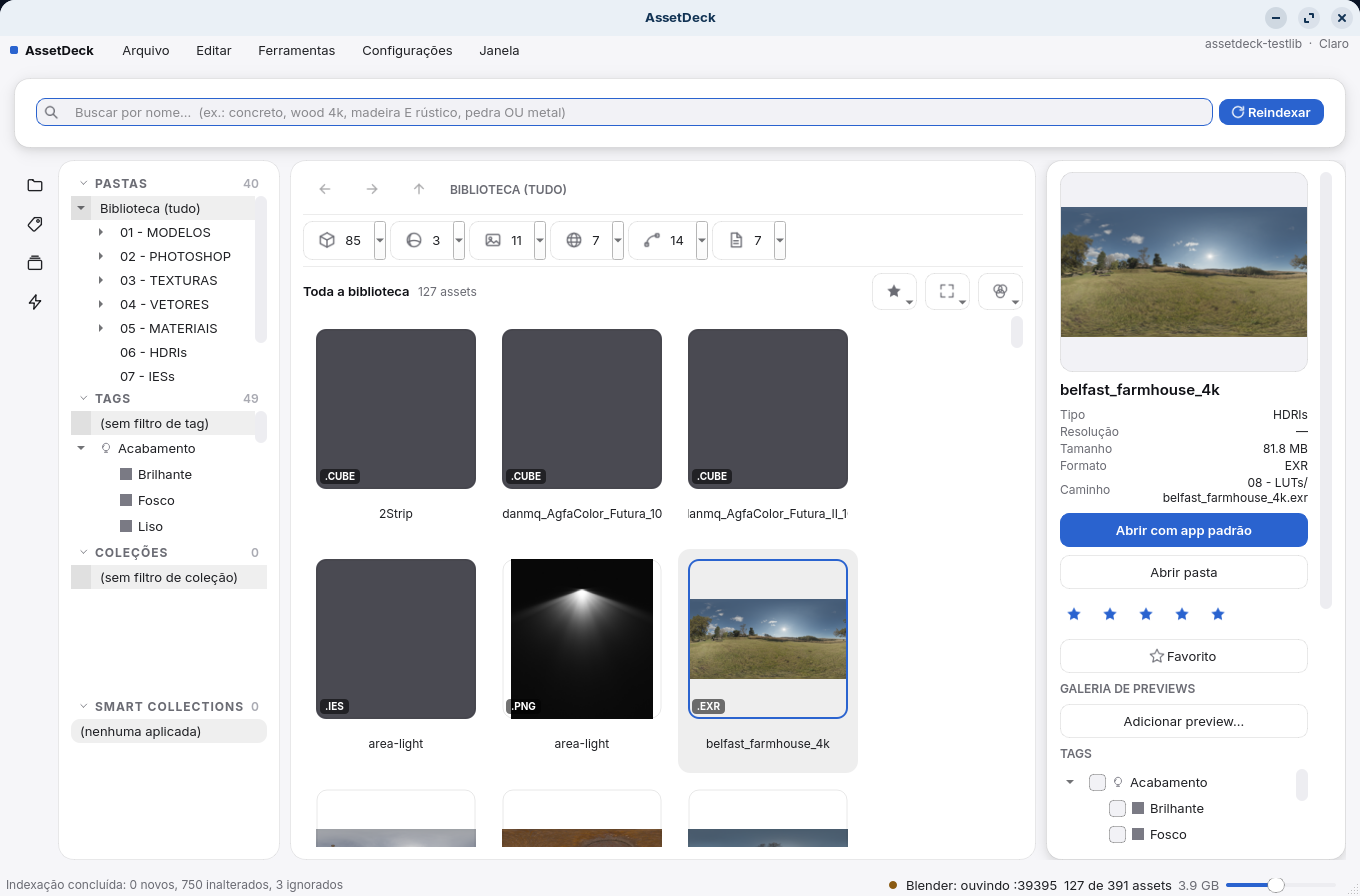
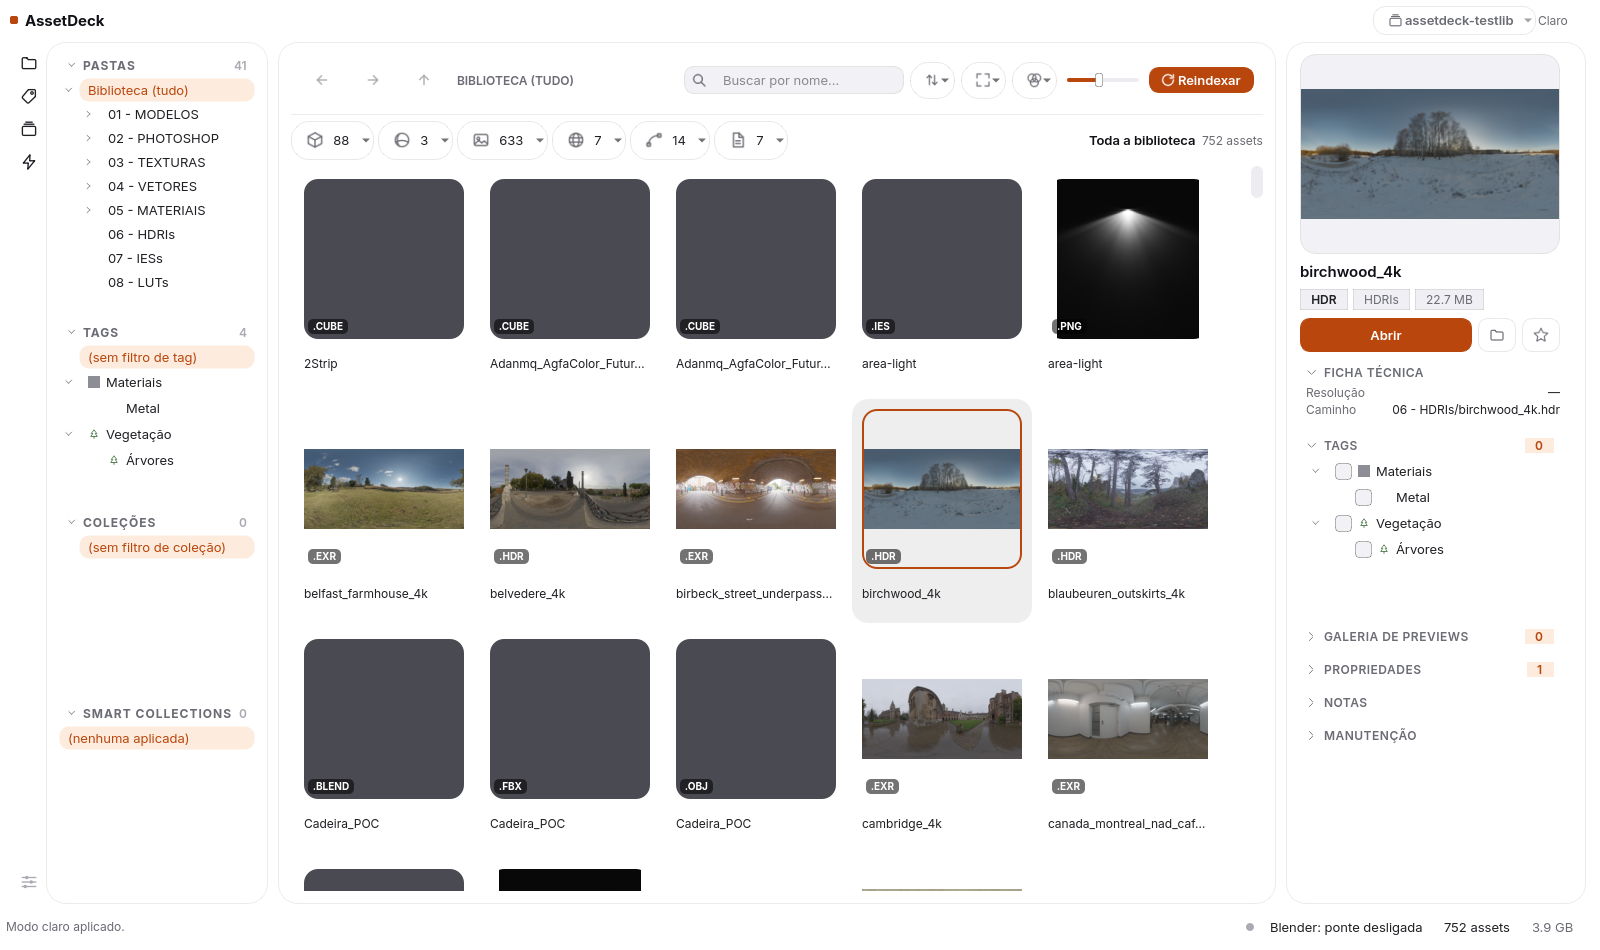
README: prints novos e o que mudou desde a Fase 7
Os prints eram de 4 de agosto, antes de todo o redesign visual. Refeitos
contra a biblioteca de teste, com asset selecionado (o painel de detalhes
vazio não mostrava nada) e mais um do visualizador 3D.

Correção de EXATIDÃO, não só features: o README (e o PROJECT.md) diziam que a
biblioteca é somente-leitura e que o app "nunca move, renomeia ou apaga".
Isso deixou de ser verdade quando o Rafael pediu renomear em lote (Fatia 23)
e mover assets arrastando (Fatia 85). Agora dizem "somente-leitura por
padrão" e nomeiam as duas exceções, deixando claro que só acontecem a pedido.

Novo no texto: visualizador 3D de HDRI e modelo, mover assets arrastando,
casamento automático de preview por nome (incluindo Chaos Cosmos), Blender
via Flatpak OU binário no PATH, e a seção "Indexar a biblioteca" -- que agora
é manual por padrão, algo que confundiria quem clonasse o repositório.

Também aponta onde olhar quando o programa cai (logs/quedas.txt, Fatia 99).

diff --git a/README.md b/README.md
@@ -5,11 +5,15 @@ materiais PBR, LUTs, perfis de luz IES, vetores — com integração direta ao
 Blender. Feito para uso pessoal: **100% offline**, sem conta, sem nuvem, sem
 telemetria.
 
-A biblioteca de arquivos é **somente-leitura**: o AssetDeck nunca move,
-renomeia ou apaga nada dentro dela. Os metadados (tags, notas, favoritos,
-avaliações) ficam num banco SQLite local, com um espelho em `.json` ao lado
-de cada asset — se o banco se perder, os metadados voltam sozinhos na
-próxima indexação.
+A biblioteca de arquivos é **somente-leitura por padrão**: o AssetDeck não
+mexe em nada dentro dela por conta própria. Existem duas ações que escrevem
+no disco, e as duas só acontecem quando você pede explicitamente —
+**renomear em lote** e **mover assets** (arrastando um card da grade para
+uma pasta). As duas mostram antes o que vai acontecer, e nunca apagam nada.
+
+Os metadados (tags, notas, favoritos, avaliações) ficam num banco SQLite
+local, com um espelho em `.json` ao lado de cada asset — se o banco se
+perder, os metadados voltam sozinhos na próxima indexação.
 
 <p align="center">
   <img src="docs/screenshots/biblioteca-escuro.png" alt="AssetDeck em modo escuro, com um HDRI selecionado" width="860">
@@ -37,10 +41,22 @@ jeito — e agrupa automaticamente os arquivos de um mesmo material PBR
   cena: HDRI vira World, um set PBR vira material com node group pronto,
   modelos entram por Append/Link. Também gera capas em lote renderizando
   dentro do Blender, headless.
+- **Abre HDRI e modelo 3D de verdade, sem sair do app.** Duplo clique num
+  `.hdr`/`.exr` abre um visualizador com a imagem projetada em volta da
+  câmera (e um modo "esfera de reflexo", pra julgar a luz); num
+  `.blend`/`.fbx`/`.obj`, o modelo aparece com câmera orbitando. Miniatura
+  achatada não deixa avaliar nem luz nem forma.
+- **Arruma a biblioteca sem sair do programa.** Arrastar assets da grade
+  para uma pasta da árvore MOVE os arquivos no disco (com confirmação, e
+  levando junto texturas, previews e sidecars do asset). É a saída pra
+  aquele modelo que foi parar na pasta errada há dois anos.
+- **Casa preview com modelo automaticamente.** `Cadeira.blend` +
+  `Cadeira.jpg` viram um card só, com a imagem de capa — inclusive quando o
+  pack traz vários previews numerados (`_001`, `_002`), como o Chaos Cosmos.
 - **Resolve manutenção chata de biblioteca grande:** renomear em lote com
   padrão de texto, religar texturas que sumiram do caminho original de um
   `.blend`, e apontar para mais de uma pasta-raiz (trocando qual está ativa
-  pelo menu Arquivo).
+  pelo seletor no canto superior direito).
 
 ## Screenshots
 
@@ -55,13 +71,26 @@ miniatura, ficha técnica, avaliação, galeria de previews e tags do asset
 selecionado. O rodapé mostra se a ponte com o Blender está conectada e o
 tamanho total da biblioteca.
 
+### Visualizador de HDRI e de modelo 3D
+
+<p align="center">
+  <img src="docs/screenshots/visualizador-hdri.png" alt="Visualizador de HDRI, com a imagem projetada em volta da câmera" width="860">
+</p>
+
+Duplo clique num `.hdr`/`.exr` abre o HDRI projetado em volta da câmera —
+arrastar gira a vista, e o modo **esfera de reflexo** põe uma esfera
+espelhada no meio da cena pra julgar a luz. O mesmo visualizador atende
+`.blend`, `.fbx` e `.obj`, aí com câmera orbitando e um botão para
+reenquadrar o modelo.
+
 ## Requisitos
 
 - Linux (desenvolvido e testado no Zorin OS)
 - Python 3.12
-- [Blender](https://www.blender.org/) 5.2, opcional — só necessário se você
-  quiser usar a ponte com o Blender (arrastar assets direto pra cena). O
-  projeto assume a versão via Flatpak:
+- [Blender](https://www.blender.org/) 5.2, opcional — necessário para a
+  ponte (arrastar assets direto pra cena), para gerar capas de modelos e
+  para abrir `.blend` no visualizador 3D. O app aceita o Blender instalado
+  via Flatpak **ou** um binário `blender` no `PATH`, nessa ordem:
   ```bash
   flatpak install flathub org.blender.Blender
   ```
@@ -99,10 +128,24 @@ apontar pra uma biblioteca sua, edite a chave `"library_root"` nesse
 arquivo com o caminho absoluto da pasta que você quer indexar (o app só
 lê essa pasta — nunca escreve nela).
 
+### Indexar a biblioteca
+
+O AssetDeck **não varre a biblioteca sozinho ao abrir** — numa biblioteca
+grande isso são vários minutos de disco e CPU sem ninguém ter pedido. Quem
+manda é o botão **Reindexar**, na barra de cima: clique nele depois de
+copiar arquivos novos para a pasta.
+
+Se você preferir o comportamento antigo, ligue **Configurações →
+Manutenção → Varrer a biblioteca ao abrir**.
+
 Dados do app ficam em (padrão XDG, não versionado no git):
 - Config: `~/.config/assetdeck/config.json`
 - Banco + backups + logs: `~/.local/share/assetdeck/`
 - Cache de miniaturas: `~/.cache/assetdeck/`
+
+Se o programa fechar sozinho alguma vez, `~/.local/share/assetdeck/logs/`
+guarda dois arquivos úteis: `assetdeck.log` (o que ele estava fazendo) e
+`quedas.txt` (onde ele estava no instante da queda).
 
 ### Ponte com o Blender (opcional)
 
@@ -130,12 +173,14 @@ pytest -q
 ## Estrutura do projeto
 
 - `assetdeck/` — código do app
-  - `ui/` — interface em PySide6/Qt (janela, tema, grade, painéis, diálogos)
+  - `ui/` — interface em PySide6/Qt (janela, tema, grade, painéis, diálogos,
+    visualizador 3D)
   - `db/` — SQLite (conexão, migrations, repositórios)
   - `indexer/` — varredura de disco, agrupamento PBR, dependências
   - `thumbs/` — geração e cache de miniaturas (raster e HDR/EXR)
   - `bridge/` — servidor da ponte com o Blender (protocolo próprio via socket)
   - `blender/` — chamadas headless ao Blender (render de capas)
+  - `mover.py` — mover assets entre pastas (planeja, confirma, executa)
 - `blender_addon/` — add-on do Blender (a ponte: recebe o que o AssetDeck
   arrasta e aciona o menu nativo do Blender)
 - `tests/` — suíte de testes (`pytest`)
